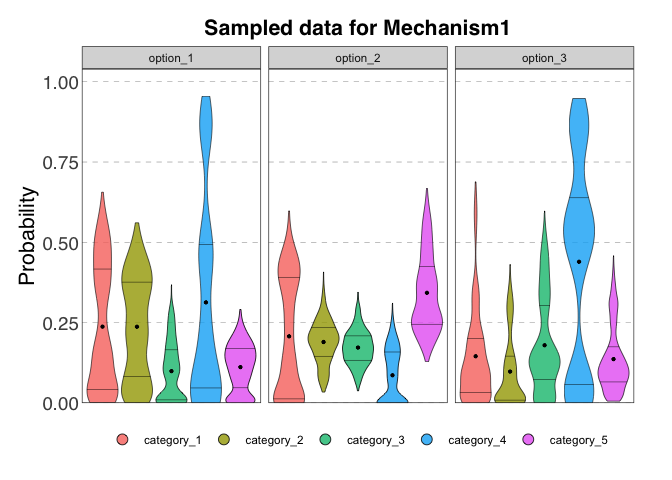
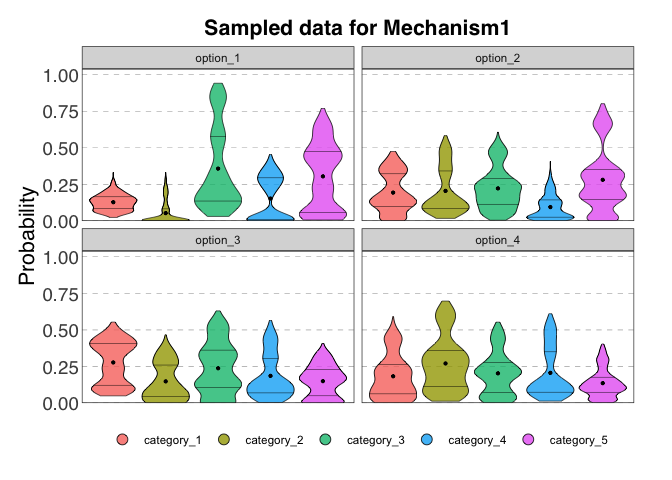
Update typo Readme

diff --git a/README.md b/README.md
@@ -160,15 +160,15 @@ samp_cont
 #> # A tibble: 18,000 × 3
 #>    id      var   value
 #>    <chr>   <chr> <dbl>
-#>  1 5ac97e0 var1      1
-#>  2 5ac97e0 var1      1
+#>  1 5ac97e0 var1      0
+#>  2 5ac97e0 var1      0
 #>  3 5ac97e0 var1     -2
-#>  4 5ac97e0 var1     -2
-#>  5 5ac97e0 var1      1
-#>  6 5ac97e0 var1      1
-#>  7 5ac97e0 var1     -2
-#>  8 5ac97e0 var1      1
-#>  9 5ac97e0 var1      1
+#>  4 5ac97e0 var1      0
+#>  5 5ac97e0 var1      0
+#>  6 5ac97e0 var1      0
+#>  7 5ac97e0 var1     -4
+#>  8 5ac97e0 var1     -2
+#>  9 5ac97e0 var1     -2
 #> 10 5ac97e0 var1     -2
 #> # ℹ 17,990 more rows
 ```
@@ -180,9 +180,9 @@ summary(samp_cont)
 #> # A tibble: 3 × 7
 #>   Var      Min     Q1 Median   Mean     Q3    Max
 #>   <chr>  <dbl>  <dbl>  <dbl>  <dbl>  <dbl>  <dbl>
-#> 1 var1  -4     -2      0     -0.972  1      1    
-#> 2 var2  11.0   14.5   16.2   16.3   18.4   22.7  
-#> 3 var3   0.484  0.671  0.716  0.715  0.761  0.874
+#> 1 var1  -4     -2     -2     -1.01   1      1    
+#> 2 var2  11.0   14.5   16.3   16.3   18.3   22.7  
+#> 3 var3   0.486  0.672  0.715  0.715  0.761  0.875
 ```
 
 And plotted as violin plots:
@@ -303,68 +303,66 @@ Data can be sampled from the elicitation object using the basic or
 bootstrap method:
 
 ``` r
-samp_cat <- cat_sample_data(my_elic_cat,
+samp_cat_basic <- cat_sample_data(my_elic_cat,
                             topic = "Mechanism1",
                             method = "basic")
 #> ✔ Data sampled successfully using "basic" method.
-samp_cat
+samp_cat_basic
 #> # A tibble: 2,400 × 7
 #>    id      option   category_1 category_2 category_3 category_4 category_5
 #>    <chr>   <chr>         <dbl>      <dbl>      <dbl>      <dbl>      <dbl>
-#>  1 5ac97e0 option_1     0.0879          0      0.826   0.0247       0.0612
-#>  2 5ac97e0 option_1     0.0452          0      0.917   0.0163       0.0219
-#>  3 5ac97e0 option_1     0.0705          0      0.910   0.000390     0.0190
-#>  4 5ac97e0 option_1     0.0385          0      0.942   0.00231      0.0172
-#>  5 5ac97e0 option_1     0.0604          0      0.859   0.0190       0.0618
-#>  6 5ac97e0 option_1     0.109           0      0.840   0.0116       0.0396
-#>  7 5ac97e0 option_1     0.0645          0      0.817   0.0516       0.0665
-#>  8 5ac97e0 option_1     0.0448          0      0.887   0.0123       0.0559
-#>  9 5ac97e0 option_1     0.119           0      0.756   0.0750       0.0502
-#> 10 5ac97e0 option_1     0.0896          0      0.849   0.0317       0.0294
+#>  1 5ac97e0 option_1     0.0710          0      0.870    0.0185      0.0400
+#>  2 5ac97e0 option_1     0.0886          0      0.819    0.0234      0.0695
+#>  3 5ac97e0 option_1     0.147           0      0.799    0.00641     0.0472
+#>  4 5ac97e0 option_1     0.0857          0      0.847    0.0207      0.0467
+#>  5 5ac97e0 option_1     0.104           0      0.822    0.00639     0.0678
+#>  6 5ac97e0 option_1     0.0499          0      0.836    0.0844      0.0296
+#>  7 5ac97e0 option_1     0.0858          0      0.834    0.00791     0.0722
+#>  8 5ac97e0 option_1     0.105           0      0.820    0.0309      0.0439
+#>  9 5ac97e0 option_1     0.0557          0      0.863    0.00943     0.0718
+#> 10 5ac97e0 option_1     0.0636          0      0.795    0.0351      0.106 
 #> # ℹ 2,390 more rows
 
-samp_cat <- cat_sample_data(my_elic_cat,
+samp_cat_bootstrap <- cat_sample_data(my_elic_cat,
                             topic = "Mechanism3",
                             method = "bootstrap")
 #> ✔ Data sampled successfully using "bootstrap" method.
-samp_cat
+samp_cat_bootstrap
 #> # A tibble: 1,800 × 7
 #>    id      option   category_1 category_2 category_3 category_4 category_5
 #>    <chr>   <chr>         <dbl>      <dbl>      <dbl>      <dbl>      <dbl>
-#>  1 5ac97e0 option_1    0.0332     0.00647   0.0426        0.801     0.117 
-#>  2 5ac97e0 option_1    0.0300     0.00762   0.00216       0.883     0.0774
-#>  3 5ac97e0 option_1    0.0209     0.00303   0.0176        0.915     0.0439
-#>  4 5ac97e0 option_1    0.0137     0.0239    0.0142        0.875     0.0732
-#>  5 5ac97e0 option_1    0.0293     0.0172    0.00436       0.822     0.127 
-#>  6 5ac97e0 option_1    0.00812    0.00286   0.00411       0.933     0.0522
-#>  7 5ac97e0 option_1    0.0176     0.0143    0.0118        0.847     0.109 
-#>  8 5ac97e0 option_1    0.00447    0.0115    0.00817       0.909     0.0668
-#>  9 5ac97e0 option_1    0.0268     0.0517    0.000157      0.799     0.122 
-#> 10 5ac97e0 option_1    0.0233     0.0477    0.0104        0.874     0.0447
+#>  1 5ac97e0 option_1     0.0210    0.0170    0.0133        0.809     0.139 
+#>  2 5ac97e0 option_1     0.0103    0.0228    0.00143       0.894     0.0712
+#>  3 5ac97e0 option_1     0.0310    0.0397    0.0278        0.780     0.121 
+#>  4 5ac97e0 option_1     0.0451    0.0158    0.0110        0.830     0.0977
+#>  5 5ac97e0 option_1     0.0258    0.00895   0.0251        0.828     0.113 
+#>  6 5ac97e0 option_1     0.0463    0.0228    0.000724      0.840     0.0898
+#>  7 5ac97e0 option_1     0.0111    0.00310   0.0140        0.918     0.0542
+#>  8 5ac97e0 option_1     0.0106    0.00862   0.0128        0.897     0.0711
+#>  9 5ac97e0 option_1     0.0124    0.0361    0.0236        0.836     0.0917
+#> 10 5ac97e0 option_1     0.0462    0.0107    0.0131        0.821     0.109 
 #> # ℹ 1,790 more rows
 ```
 
 And the sample summarised:
 
 ``` r
-summary(samp_cat, option = "option_2")
+summary(samp_cat_basic, option = "option_2")
 #> # A tibble: 5 × 7
-#>   Category         Min     Q1 Median   Mean    Q3   Max
-#>   <chr>          <dbl>  <dbl>  <dbl>  <dbl> <dbl> <dbl>
-#> 1 category_1 0.0000133 0.0130 0.161  0.208  0.391 0.598
-#> 2 category_2 0.0341    0.146  0.194  0.190  0.234 0.408
-#> 3 category_3 0.0375    0.133  0.171  0.173  0.209 0.345
-#> 4 category_4 0         0      0.0796 0.0865 0.159 0.311
-#> 5 category_5 0.129     0.245  0.325  0.343  0.424 0.668
+#>   Category        Min     Q1 Median   Mean    Q3   Max
+#>   <chr>         <dbl>  <dbl>  <dbl>  <dbl> <dbl> <dbl>
+#> 1 category_1 0.000924 0.100  0.159  0.194  0.323 0.475
+#> 2 category_2 0.0180   0.0848 0.134  0.206  0.342 0.584
+#> 3 category_3 0.00532  0.115  0.208  0.223  0.290 0.607
+#> 4 category_4 0.000489 0.0264 0.0731 0.0953 0.144 0.407
+#> 5 category_5 0.000643 0.148  0.247  0.282  0.351 0.802
 ```
 
 And plotted as violin plots:
 
 ``` r
-plot(samp_cat,
-     topic = "Mechanism1",
-     title = "Sampled data for Mechanism1",
-     ylab = "Probability")
+plot(samp_cat_basic,
+     title = "Sampled data for Mechanism1")
 ```
 
 <img src="man/figures/README-plot sampled data from categorical data - violin-1.png" alt="Density plot of the sampled data for variable 3." width="100%" />
